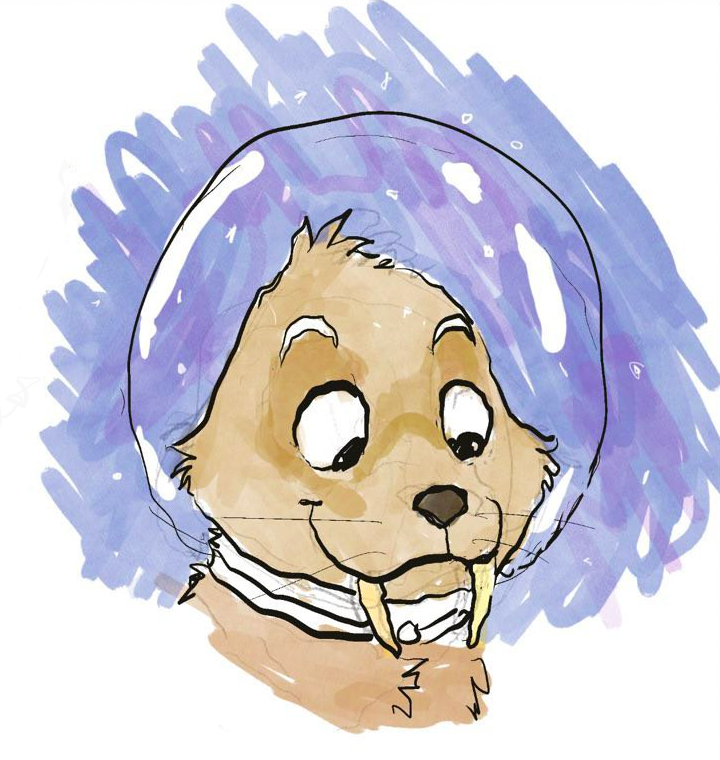
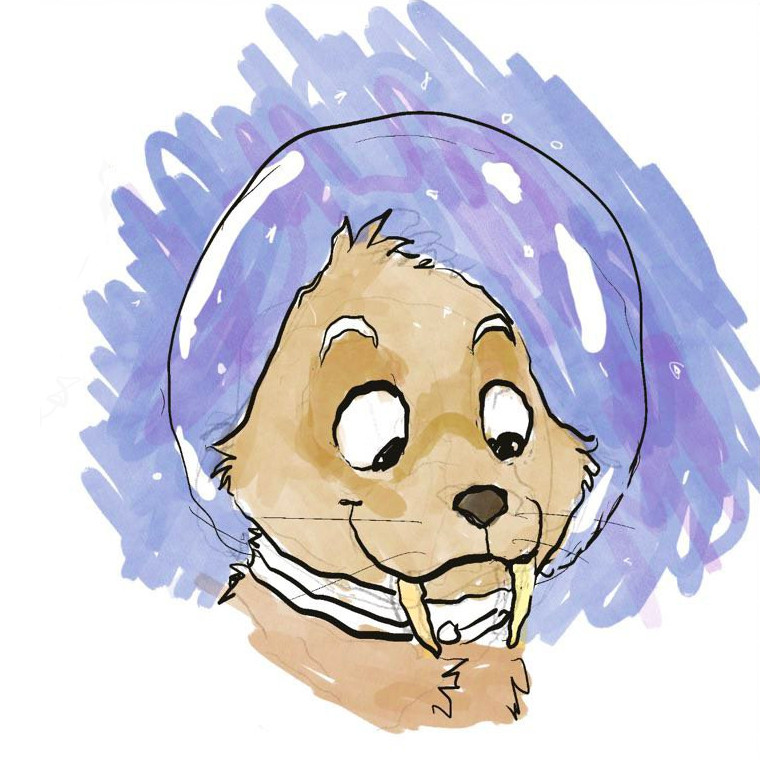
Asd

diff --git a/ref.html b/ref.html
@@ -27,11 +27,8 @@
 <h3 style="text-align: center; line-height:1.0;">Click images for full view!</h3>
 
 <p style="text-align: center; line-height:1.0;">
-<a rel="me" href="img/odoben_by_ruki.png"><img src="img/sketch_2023-06-17.png" alt="Walrus" style="max-width: 45%; border-radius: 12px;"></a>
-</p>
-
-<p style="text-align: center; line-height:1.0;">
-<a rel="me" href="img/odoben_by_paco.jpg"><img src="img/sketch_2023-06-17.png" alt="Walrus" style="max-width: 45%; border-radius: 12px;"></a>
+<a rel="me" href="img/odoben_by_ruki.png"><img src="img/odoben_by_ruki.png" alt="Walrus" style="max-width: 48%; border-radius: 12px;"></a>
+<a rel="me" href="img/odoben_by_paco.jpg"><img src="img/odoben_by_paco.jpg" alt="Walrus" style="max-width: 48%; border-radius: 12px;"></a>
 </p>
 
 <p id="blueThing" class="post">
